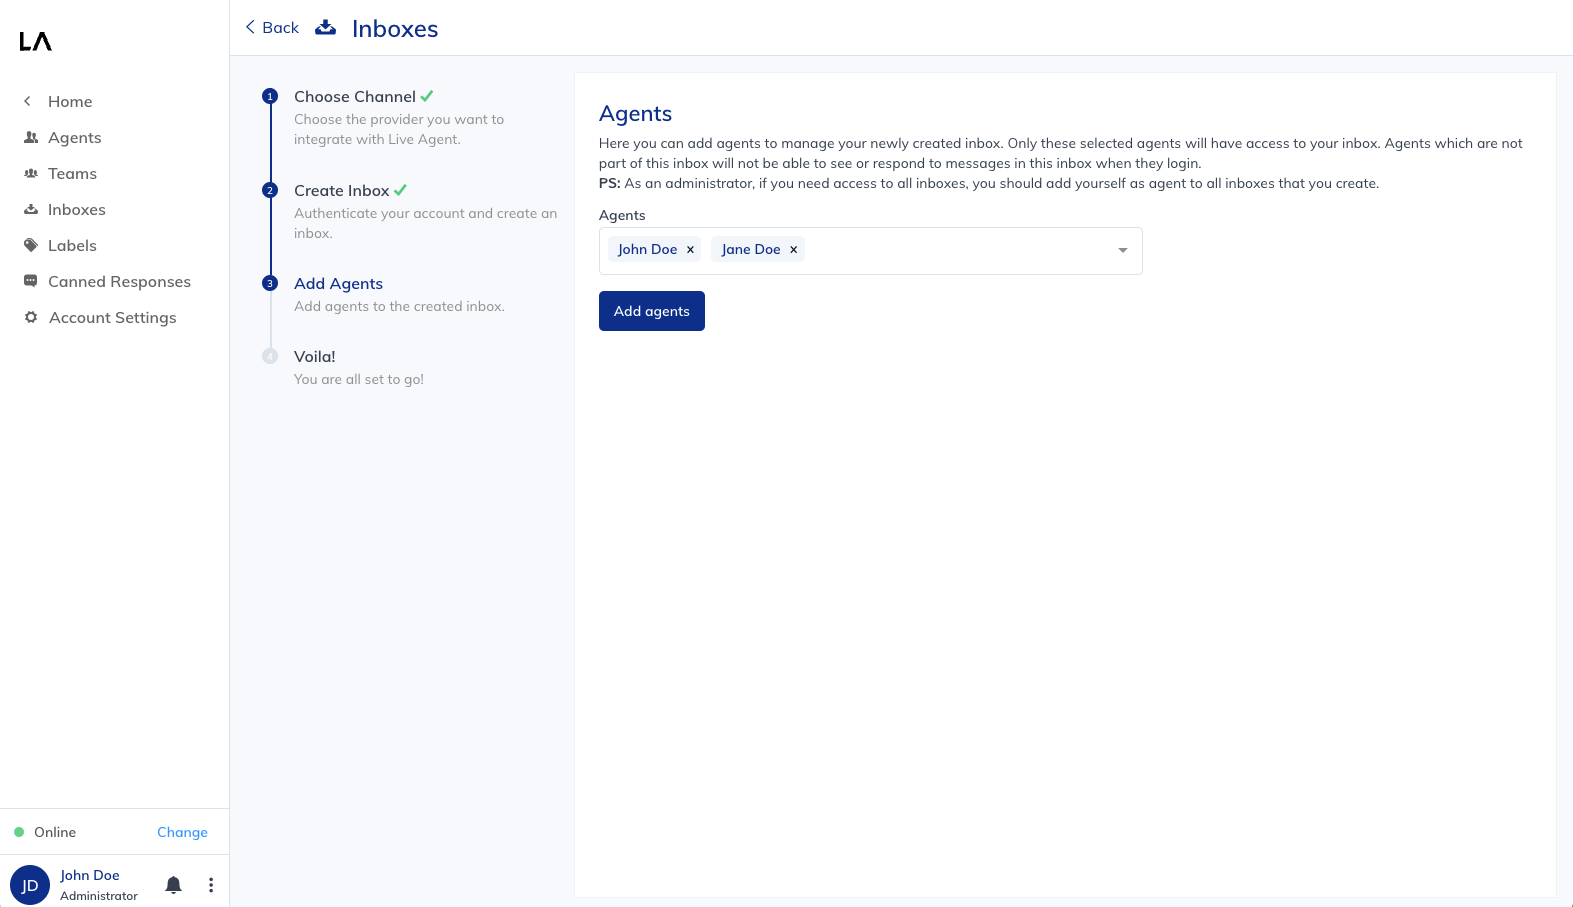
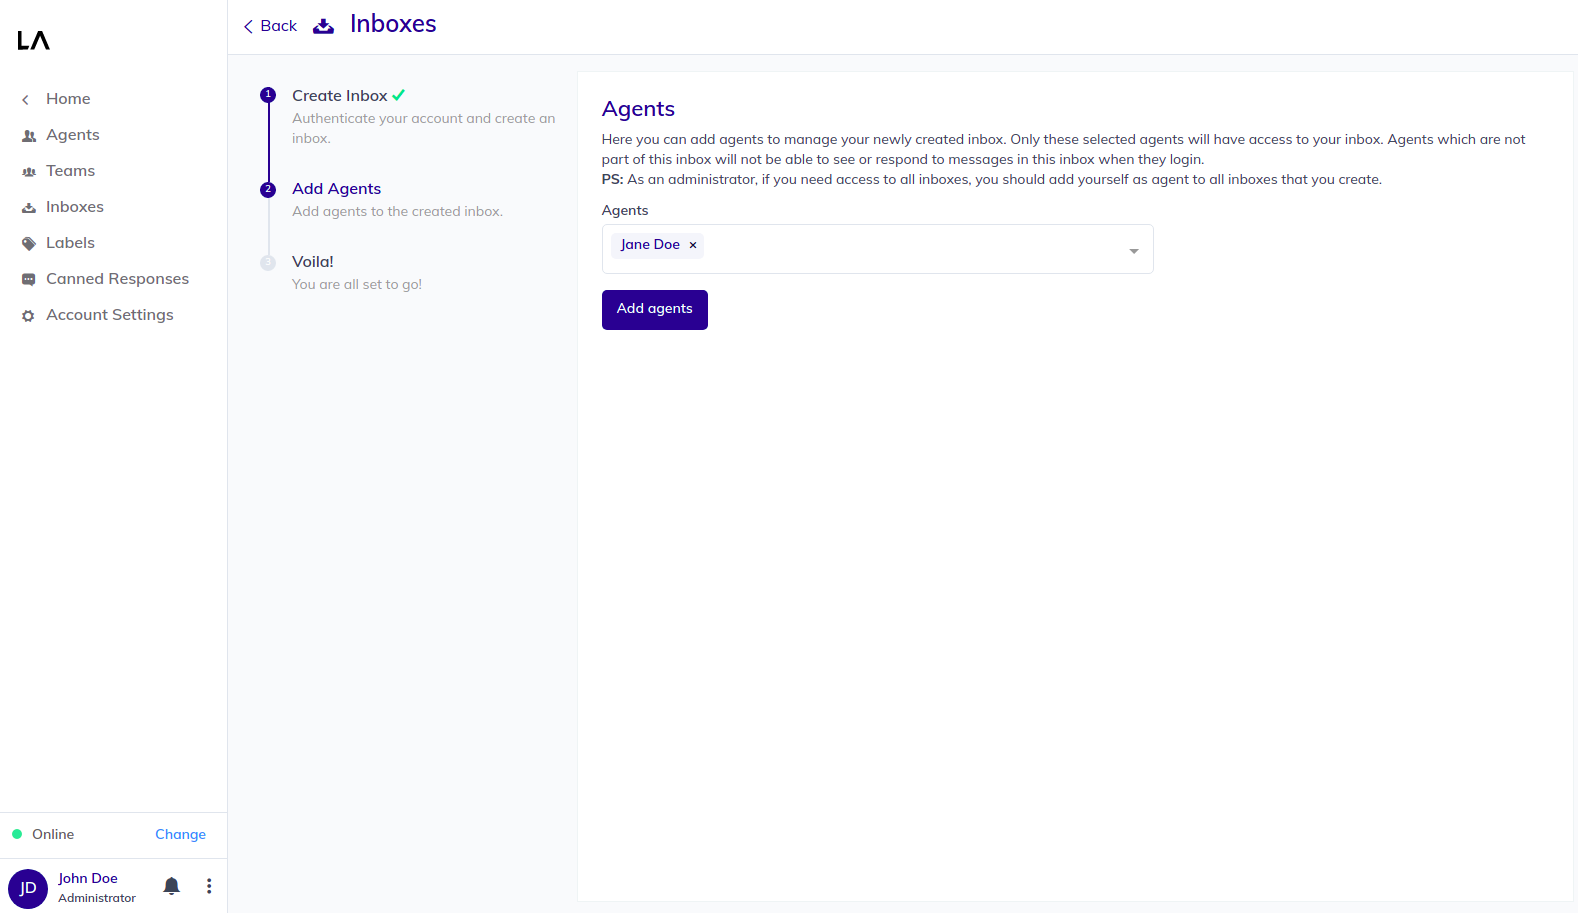
fix getting started documentation to match api channel implicit selection

diff --git a/docs/en/docs/live-agent/getting-started/add-an-inbox-for-handling-the-handover.md b/docs/en/docs/live-agent/getting-started/add-an-inbox-for-handling-the-handover.md
@@ -4,8 +4,7 @@ From the Live Agent Dashboard screen, do click on **Inboxes** in the sidebar.
 
 >You can also add new inboxes from the welcome message or clicking on the plus button next to Inboxes in the sidebar
 
-Choose API as the inbox channel.
-
+Live Agent will show you a screen to configure your API connection.
 <figure>
     <img src="{{config.site_url}}assets/img/LA-add-inbox-screen.png" width="100%" alt="Live Agent Add Inbox Screen">
   <figcaption>Live Agent Add Inbox Screen</figcaption>
